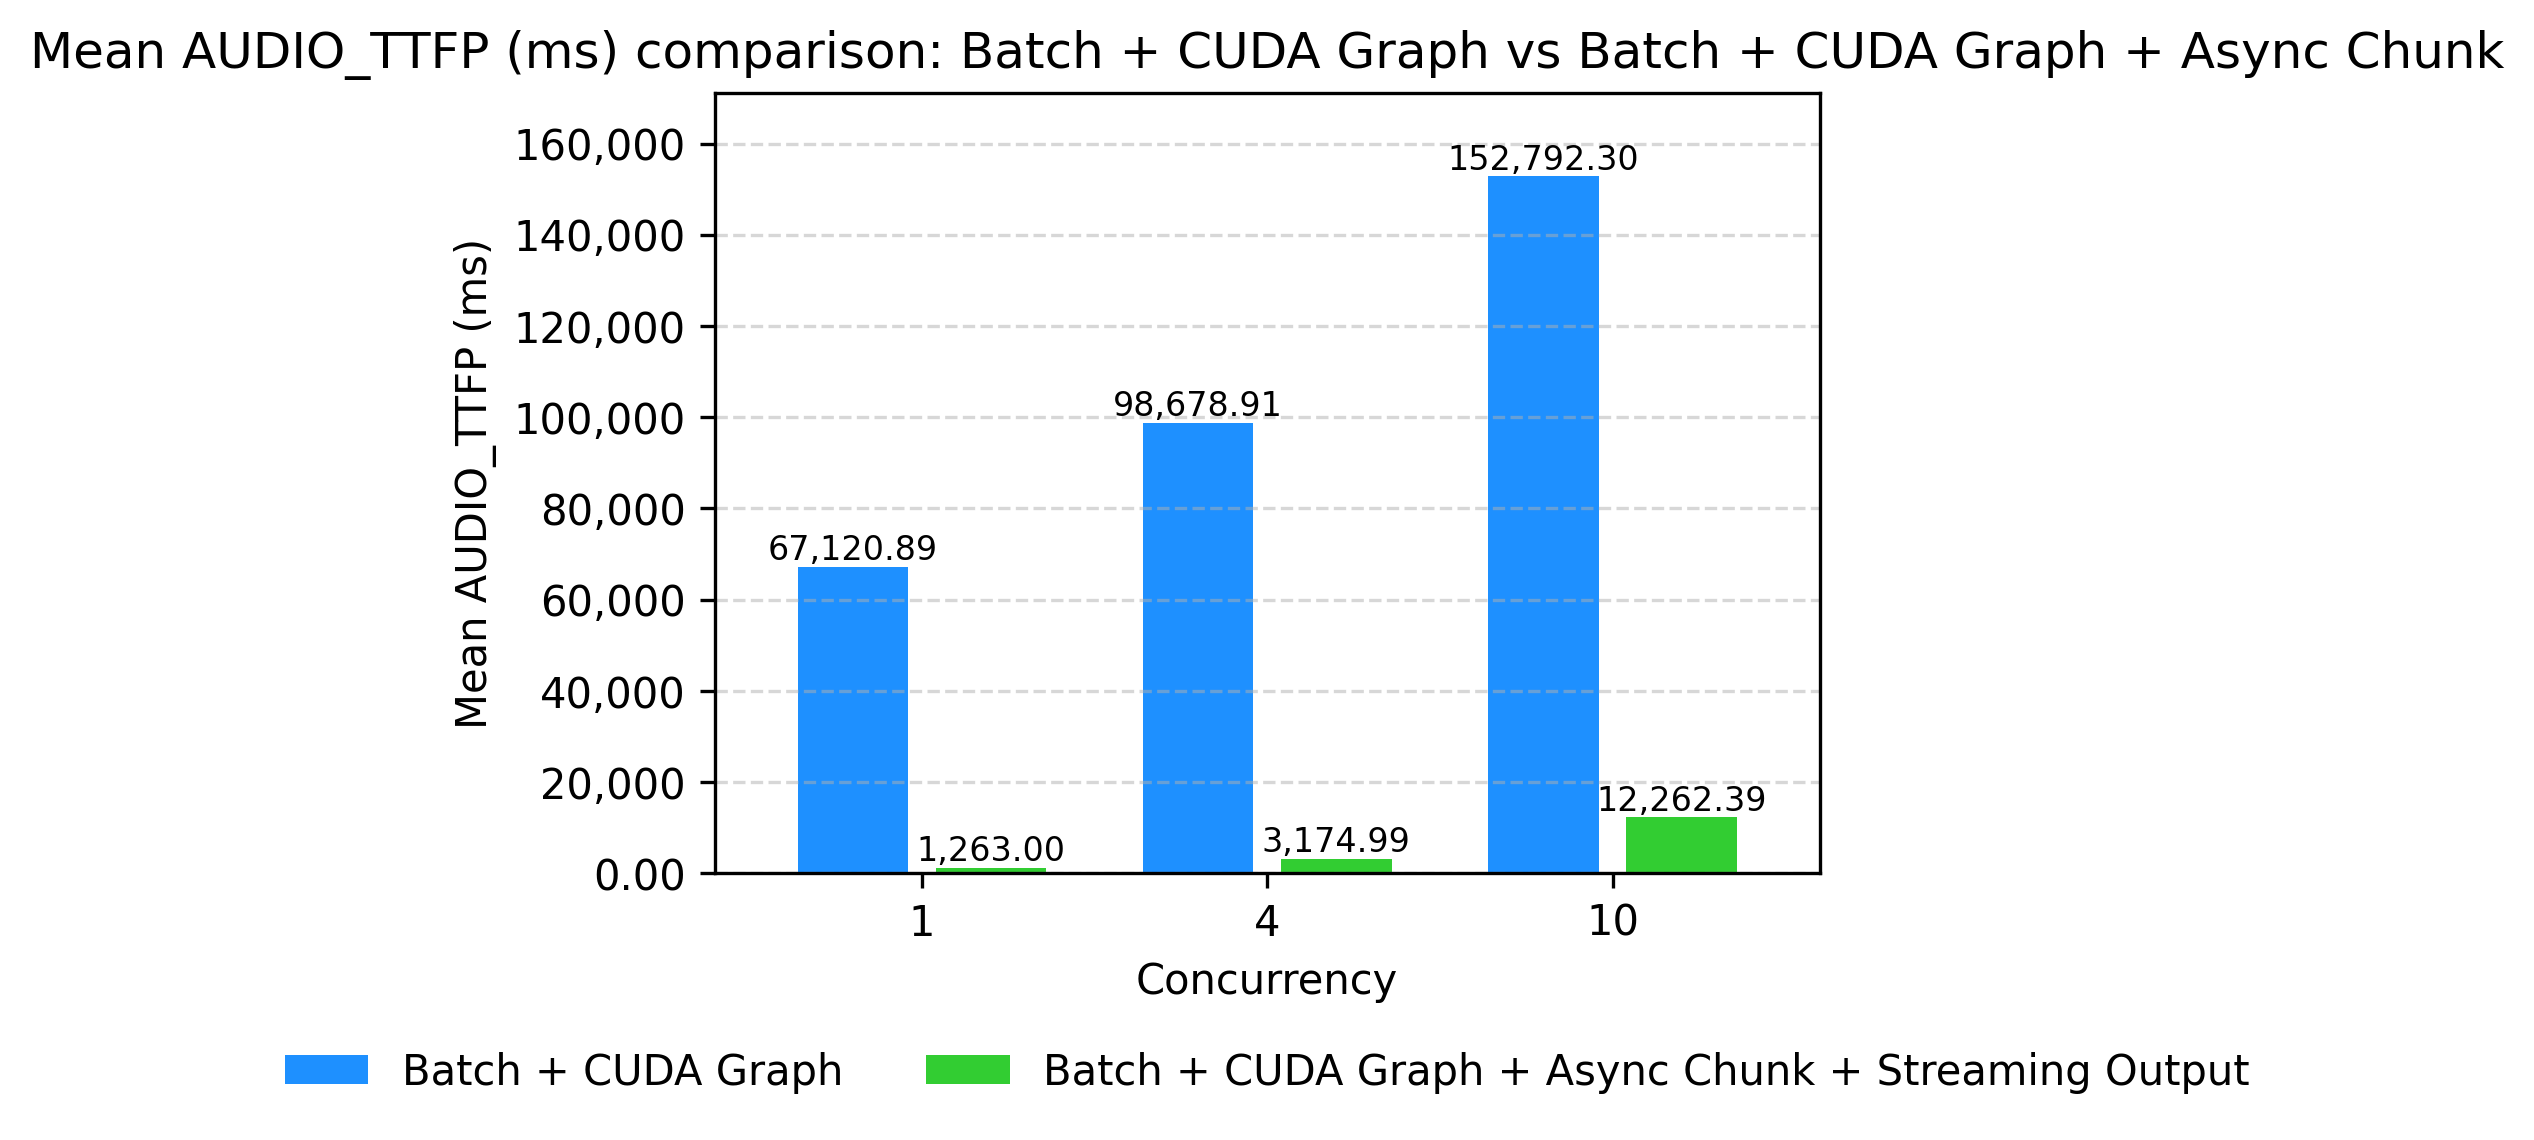
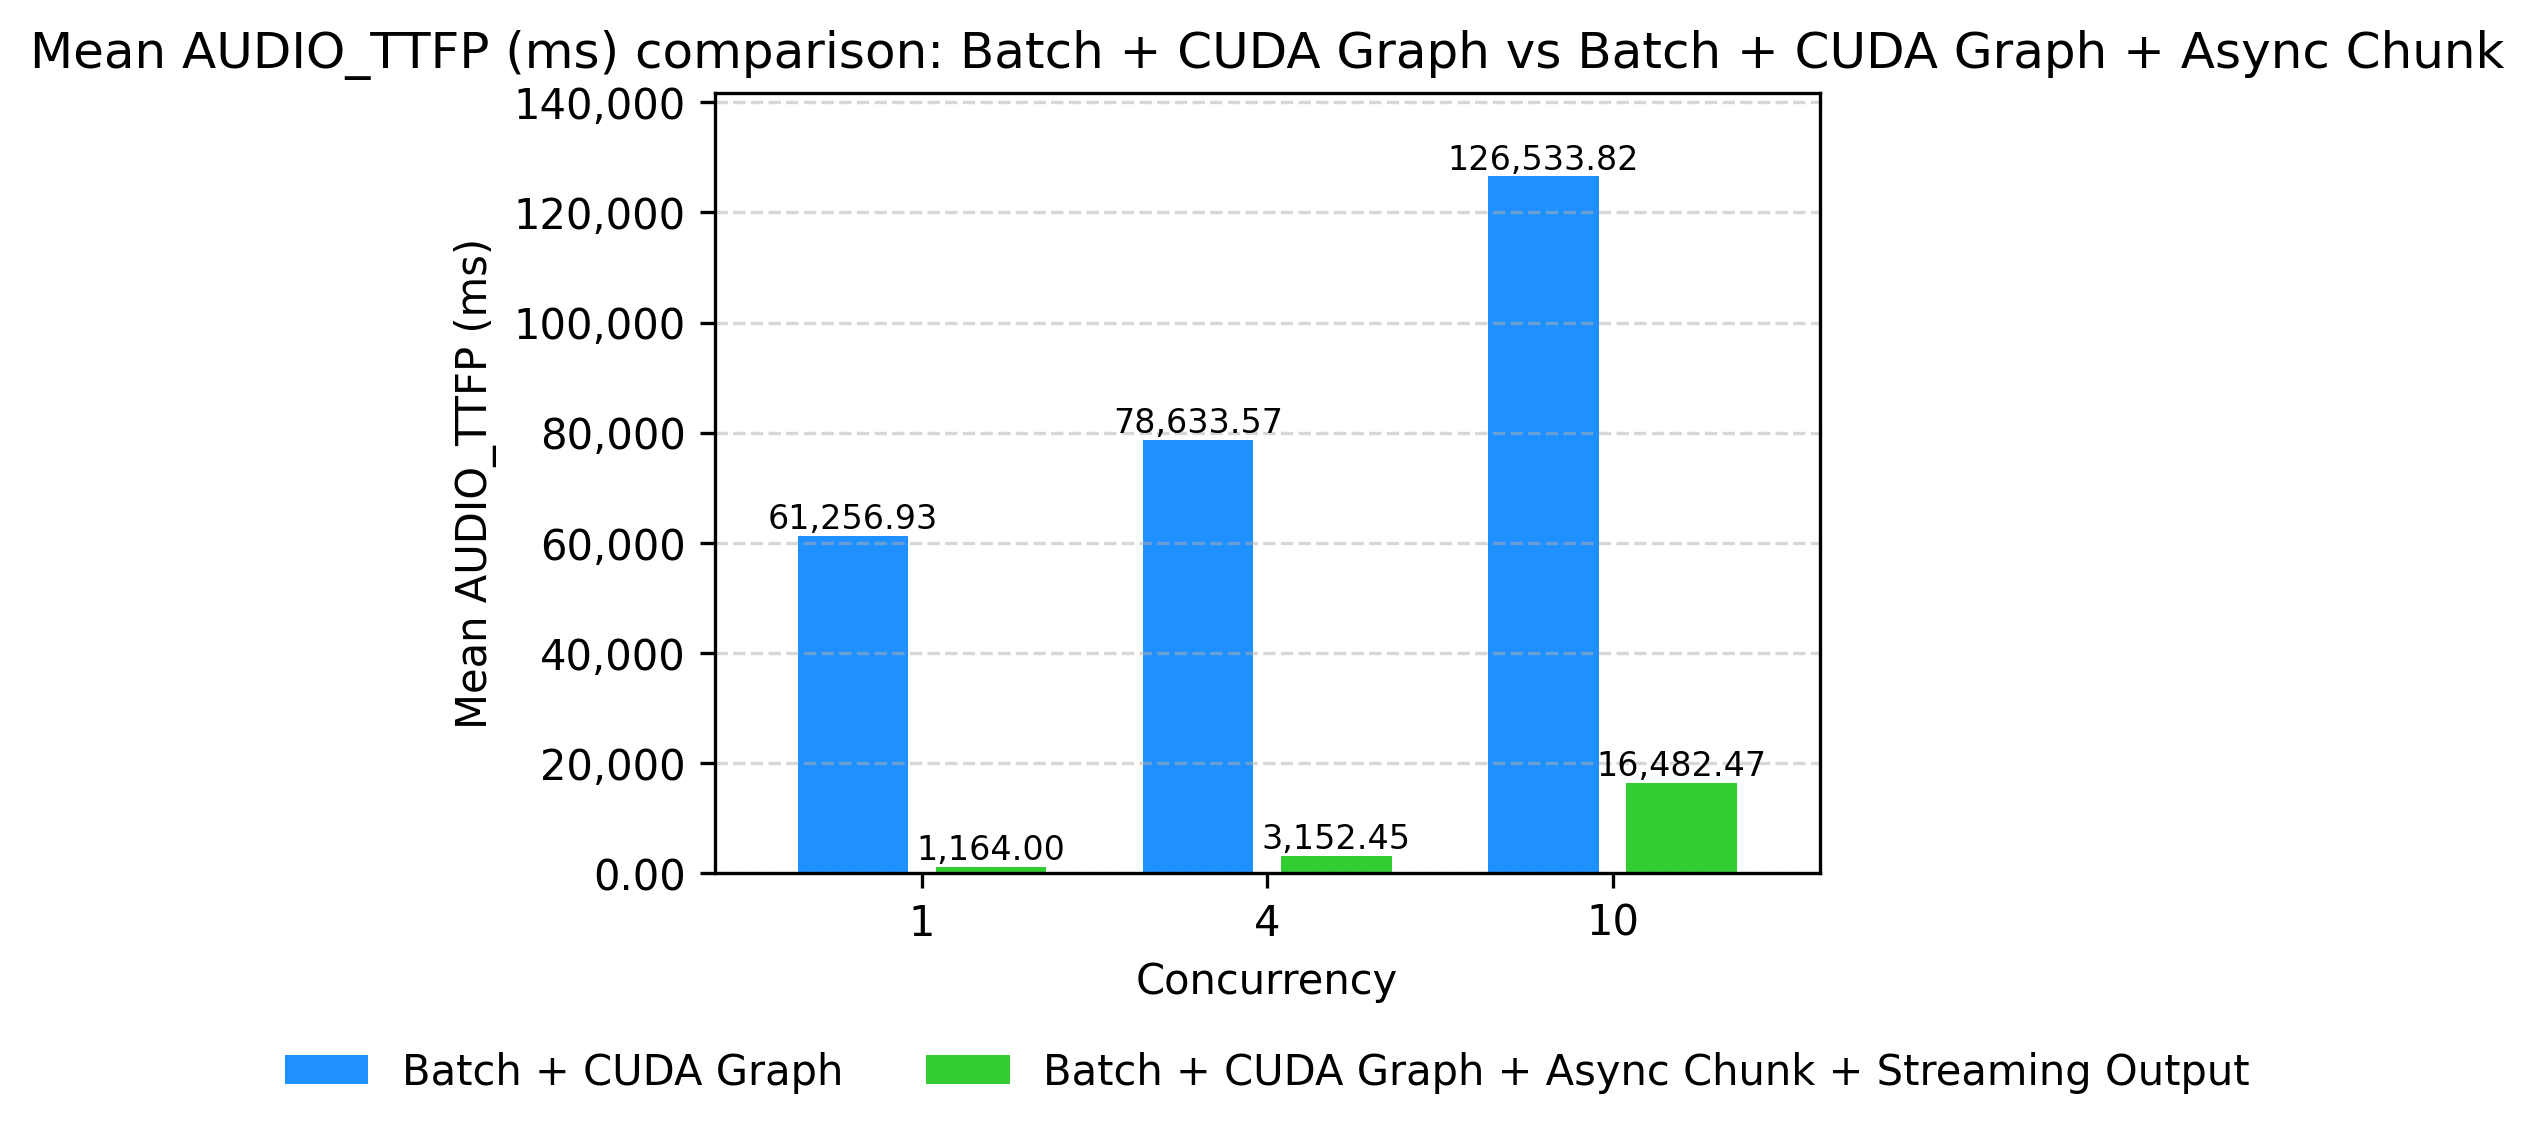
update blog data

diff --git a/plot_comparison.py b/plot_comparison.py
@@ -16,21 +16,25 @@ FIG_DIR.mkdir(parents=True, exist_ok=True)
 # 数据
 # =======================
 data = [
-    ["Batch + CUDA Graph + Async Chunk",1,60435.5,1263,0.33],
-    ["Batch + CUDA Graph + Async Chunk",4,90969.2,3174.99,0.43],
-    ["Batch + CUDA Graph + Async Chunk",10,130681.82,12262.39,0.74],
+    # Baseline
+    ["Baseline", 1, 426529.35, 426078.26, 2.08],
+    ["Baseline", 4, 407213.08, 406843.44, 2.55],
+    ["Baseline", 10, 410053.93, 409704.53, 2.83],
 
-    ["Batch",1,238556.1,238256.7,1.48],
-    ["Batch",4,259586.2,259342.8,1.62],
-    ["Batch",10,262400.45,262157.5,2.18],
+    # Batch
+    ["Batch", 1, 307719.42, 307262.37, 1.51],
+    ["Batch", 4, 376933.61, 376466.13, 1.83],
+    ["Batch", 10, 234844.44, 234556.58, 2.28],
 
-    ["Batch + CUDA Graph",1,67381.19,67120.89,0.43],
-    ["Batch + CUDA Graph",4,98981.04,98678.91,0.46],
-    ["Batch + CUDA Graph",10,153351.92,152792.3,0.88],
+    # Batch + CUDA Graph
+    ["Batch + CUDA Graph", 1, 61613.32, 61256.93, 0.32],
+    ["Batch + CUDA Graph", 4, 79019.08, 78633.57, 0.43],
+    ["Batch + CUDA Graph", 10, 126866.74, 126533.82, 0.9],
 
-    ["Baseline",1,325865.36,325517.15,1.52],
-    ["Baseline",4,988038.79,987707.63,6.66],
-    ["Baseline",10,1523135.4,1522803.53,6.94],
+    # Batch + CUDA Graph + Async Chunk
+    ["Batch + CUDA Graph + Async Chunk", 1, 41215.5, 1164, 0.21],
+    ["Batch + CUDA Graph + Async Chunk", 4, 67584.32, 3152.45, 0.34],
+    ["Batch + CUDA Graph + Async Chunk", 10, 104900.73, 16482.47, 0.74],
 ]
 
 df = pd.DataFrame(

diff --git a/docs/design/qwen3_omni_tts_performance_blog.md b/docs/design/qwen3_omni_tts_performance_blog.md
@@ -75,9 +75,9 @@ Each optimization stacks on the previous one. The summary plots below show the c
 <td><img src="figures/omni/Summary_RTF_vs_features.png" alt="Qwen3-Omni RTF: stacked optimization" width="100%"/></td>
 </tr></table>
 
-- **E2EL reduction**: ~91% at concurrency 10 (1,523,135 ms -> 130,682 ms); ~81% at concurrency 1 (325,865 ms -> 60,436 ms)
-- **TTFP reduction**: ~99.2% at concurrency 10 (1,522,804 ms -> 12,262 ms); ~99.6% at concurrency 1 (325,517 ms -> 1,263 ms)
-- **RTF reduction**: ~89% at concurrency 10 (6.94 -> 0.74); ~78% at concurrency 1 (1.52 -> 0.33)
+- **E2EL reduction**: ~74% at concurrency 10 (410,054 ms -> 104,901 ms); ~90% at concurrency 1 (426,529 ms -> 41,216 ms)
+- **TTFP reduction**: ~96% at concurrency 10 (409,705 ms -> 16,482 ms); ~99.7% at concurrency 1 (426,078 ms -> 1,164 ms)
+- **RTF reduction**: ~74% at concurrency 10 (2.83 -> 0.74); ~90% at concurrency 1 (2.08 -> 0.21)
 
 **Qwen3-TTS** (H200):
 
@@ -93,13 +93,13 @@ Each optimization stacks on the previous one. The summary plots below show the c
 
 **Benchmark environment:**
 
-| | Qwen3-Omni | Qwen3-TTS |
-| --- | --- | --- |
-| **GPU** | A100 | H200 |
+| | Qwen3-Omni                  | Qwen3-TTS |
+| --- |-----------------------------| --- |
+| **GPU** | A100                        | H200 |
 | **Model** | Qwen3-Omni-30B-A3B-Instruct | Qwen3-TTS-12Hz-1.7B-CustomVoice |
-| **vLLM** | v0.16.0 | v0.16.0 |
-| **vllm-omni** | commit 070ea0dd | commit 3bc89de0 |
-| **CUDA** | 12.8 | 12.8 |
+| **vLLM** | v0.17.0                     | v0.16.0 |
+| **vllm-omni** | commit 199f7832             | commit 3bc89de0 |
+| **CUDA** | 12.9                        | 12.8 |
 
 This post walks through each optimization in the same order they are typically enabled in practice, then ends with deployment playbooks for both models.
 
@@ -131,17 +131,17 @@ Batching alone greatly reduces E2EL and RTF across all concurrencies. The bigges
 
 | Metric | Concurrency | Baseline | + Batch | Improvement |
 | --- | --- | --- | --- | --- |
-| E2EL (ms) | 1 | 325,865 | 238,556 | 1.4× |
-| E2EL (ms) | 4 | 988,039 | 259,586 | 3.8× |
-| E2EL (ms) | 10 | 1,523,135 | 262,400 | 5.8× |
-| TTFP (ms) | 1 | 325,517 | 238,257 | 1.4× |
-| TTFP (ms) | 4 | 987,669 | 259,286 | 3.8× |
-| TTFP (ms) | 10 | 1,522,792 | 262,086 | 5.8× |
-| RTF | 1 | 3.78 | 0.32 | ~12× |
-| RTF | 4 | 3.78 | 0.46 | ~8× |
-| RTF | 10 | 3.78 | 0.88 | ~4× |
+| E2EL (ms) | 1 | 426,529 | 307,719 | 1.4× |
+| E2EL (ms) | 4 | 407,213 | 376,934 | 1.1× |
+| E2EL (ms) | 10 | 410,054 | 234,844 | 1.7× |
+| TTFP (ms) | 1 | 426,078 | 307,262 | 1.4× |
+| TTFP (ms) | 4 | 406,843 | 376,466 | 1.1× |
+| TTFP (ms) | 10 | 409,705 | 234,557 | 1.7× |
+| RTF | 1 | 2.08 | 1.51 | 1.4× |
+| RTF | 4 | 2.55 | 1.83 | 1.4× |
+| RTF | 10 | 2.83 | 2.28 | 1.2× |
 
-At concurrency 10, E2EL drops from ~1,523 s to ~262 s; at concurrency 1, from ~326 s to ~239 s.
+At concurrency 10, E2EL drops from ~410 s to ~235 s; at concurrency 1, from ~427 s to ~308 s.
 
 **Qwen3-TTS** (H200):
 
@@ -185,17 +185,17 @@ In stage configs, this is represented by `enforce_eager: false` for stages where
 
 | Metric | Concurrency | Batch | + CUDA Graph | Improvement |
 | --- | --- | --- | --- | --- |
-| E2EL (ms) | 1 | 238,556 | 67,381 | 3.5× |
-| E2EL (ms) | 4 | 259,586 | 98,981 | 2.6× |
-| E2EL (ms) | 10 | 262,400 | 153,352 | 1.7× |
-| TTFP (ms) | 1 | 238,257 | 67,121 | 3.5× |
-| TTFP (ms) | 4 | 259,286 | 98,679 | 2.6× |
-| TTFP (ms) | 10 | 262,086 | 152,792 | 1.7× |
-| RTF | 1 | 0.32 | 0.43 | — |
-| RTF | 4 | 0.46 | 0.46 | — |
-| RTF | 10 | 0.88 | 0.88 | — |
+| E2EL (ms) | 1 | 307,719 | 61,613 | 5.0× |
+| E2EL (ms) | 4 | 376,934 | 79,019 | 4.8× |
+| E2EL (ms) | 10 | 234,844 | 126,867 | 1.9× |
+| TTFP (ms) | 1 | 307,262 | 61,257 | 5.0× |
+| TTFP (ms) | 4 | 376,466 | 78,634 | 4.8× |
+| TTFP (ms) | 10 | 234,557 | 126,534 | 1.9× |
+| RTF | 1 | 1.51 | 0.32 | 4.7× |
+| RTF | 4 | 1.83 | 0.43 | 4.3× |
+| RTF | 10 | 2.28 | 0.90 | 2.5× |
 
-For the larger Qwen3-Omni model (30B-A3B), CUDA Graph provides a significant improvement. At concurrency 1, E2EL drops from ~239 s to ~67 s; at concurrency 10, from ~262 s to ~153 s.
+For the larger Qwen3-Omni model (30B-A3B), CUDA Graph provides a significant improvement. At concurrency 1, E2EL drops from ~308 s to ~62 s; at concurrency 10, from ~235 s to ~127 s.
 
 **Qwen3-TTS** (H200):
 
@@ -230,17 +230,17 @@ So in practice: streaming output defines *how* bytes are sent to the client; asy
 
 | Metric | Concurrency | Batch + CG | + Async Chunk | Improvement |
 | --- | --- | --- | --- | --- |
-| E2EL (ms) | 1 | 67,381 | 60,435 | 1.1× |
-| E2EL (ms) | 4 | 98,981 | 90,969 | 1.1× |
-| E2EL (ms) | 10 | 153,352 | 130,682 | 1.2× |
-| TTFP (ms) | 1 | 67,121 | 1,263 | 53× |
-| TTFP (ms) | 4 | 98,679 | 3,175 | 31× |
-| TTFP (ms) | 10 | 152,792 | 12,262 | 12× |
-| RTF | 1 | 0.43 | 0.33 | 1.3× |
-| RTF | 4 | 0.46 | 0.43 | 1.1× |
-| RTF | 10 | 0.88 | 0.74 | 1.2× |
+| E2EL (ms) | 1 | 61,613 | 41,216 | 1.5× |
+| E2EL (ms) | 4 | 79,019 | 67,584 | 1.2× |
+| E2EL (ms) | 10 | 126,867 | 104,901 | 1.2× |
+| TTFP (ms) | 1 | 61,257 | 1,164 | 53× |
+| TTFP (ms) | 4 | 78,634 | 3,152 | 24.9× |
+| TTFP (ms) | 10 | 126,534 | 16,482 | 7.7× |
+| RTF | 1 | 0.32 | 0.21 | 1.5× |
+| RTF | 4 | 0.43 | 0.34 | 1.3× |
+| RTF | 10 | 0.90 | 0.74 | 1.2× |
 
-Enabling both brings TTFP down sharply (concurrency 1: 67,121 ms -> 1,263 ms, **~98% reduction**; concurrency 4: 98,679 ms -> 3,175 ms, **~97% reduction**). E2EL and RTF also improve at every concurrency.
+Enabling both brings TTFP down sharply (concurrency 1: 61,257 ms -> 1,164 ms, **~98% reduction**; concurrency 4: 78,634 ms -> 3,152 ms, **~96% reduction**). E2EL and RTF also improve at every concurrency.
 
 **Qwen3-TTS** (H200):
 
@@ -260,7 +260,7 @@ Enabling both brings TTFP down sharply (concurrency 1: 67,121 ms -> 1,263 ms, **
 | RTF | 1 | 0.407 | 0.340 | 1.2× |
 | RTF | 10 | 1.403 | 0.898 | 1.6× |
 
-The TTFP improvement is the headline result for both models. For Qwen3-TTS at concurrency 1, users hear the first audio in **97 ms** instead of 2,335 ms - a **24x reduction**. For Qwen3-Omni at concurrency 1, TTFP drops from 67 s to 1.3 s - a **53x reduction**.
+The TTFP improvement is the headline result for both models. For Qwen3-TTS at concurrency 1, users hear the first audio in **97 ms** instead of 2,335 ms - a **24x reduction**. For Qwen3-Omni at concurrency 1, TTFP drops from 61 s to 1.2 s - a **53x reduction**.
 
 ---
 
